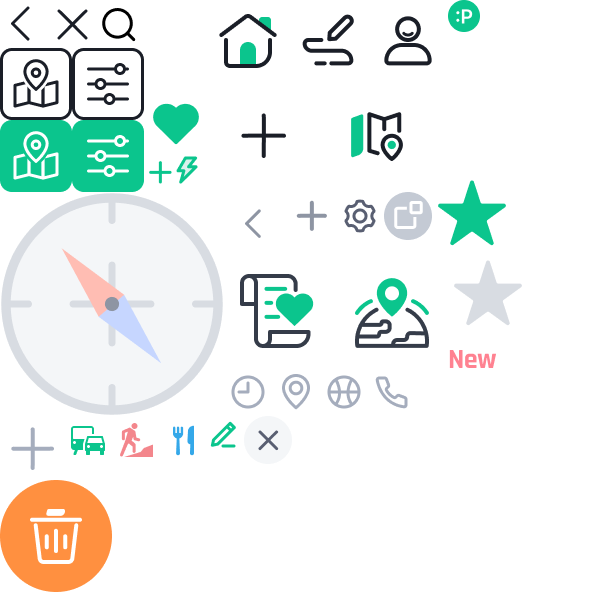
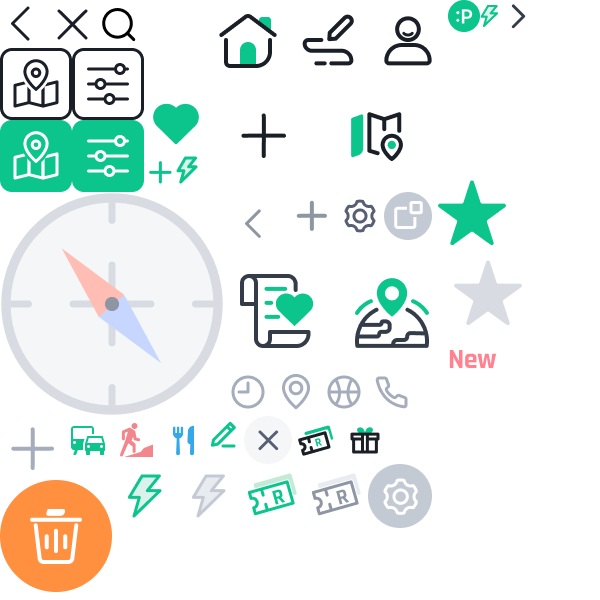
feat: 아이콘을 이미지 스플라이트로 변경

Changed region(s): [[0.3, 0.69, 0.72, 0.9], [0.78, 0.0, 0.87, 0.06], [0.21, 0.78, 0.27, 0.87]]

diff --git a/src/components/mypage/main/TravelEnerge.tsx b/src/components/mypage/main/TravelEnerge.tsx
@@ -1,4 +1,3 @@
-import Image from 'next/image';
 import Link from 'next/link';
 
 import EnergeProgress from './EnergeProgress';
@@ -13,13 +12,8 @@ const TravelEnerge = ({ currentEnergyCount }: TravelEnergeProps) => {
       <div className="relative h-[250px] mt-10">
         <div className="absolute top-[50%] left-[50%] translate-x-[-50%] translate-y-[-50%] rounded-full overflow-hidden">
           <div className="relative w-44 h-44 bg-white z-10 shadow-md flex flex-col items-center justify-center">
-            <span className="text-gray-600 text-[13px] font-bold flex gap-1">
-              <Image
-                src="/icon_search_energy.png"
-                width={10}
-                height={16}
-                alt="energe"
-              />
+            <span className="text-gray-600 text-[13px] font-bold flex gap-1 items-center">
+              <i className="ico_pravel ico_energy10_16" />
               <span>여행 에너지</span>
             </span>
             <span className="text-primary text-[46px] font-semibold leading-[55.2px]">
@@ -32,9 +26,10 @@ const TravelEnerge = ({ currentEnergyCount }: TravelEnergeProps) => {
       <div className="mt-10 w-full px-4">
         <Link
           href="/mypage/energy-history"
-          className="flex items-center justify-center w-full h-[54px] bg-gray-900 rounded-lg text-white"
+          className="flex items-center justify-center w-full h-[54px] bg-gray-900 rounded-lg text-white gap-5"
         >
           에너지 히스토리
+          <i className="ico_pravel ico_white_arrow16" />
         </Link>
       </div>
     </>

diff --git a/src/components/mypage/main/RewardList.tsx b/src/components/mypage/main/RewardList.tsx
@@ -1,5 +1,3 @@
-import Image from 'next/image';
-
 import { MypageTotalCountResponse } from '@/types/mypage.type';
 
 type RewardListProps = Omit<MypageTotalCountResponse, 'currentEnergyCount'>;
@@ -28,9 +26,7 @@ const RewardList = ({
         <div className="w-20 h-[54px] bg-gray-100 rounded-lg py-[6px] pl-3 pr-[19px]">
           <h3 className="font-semibold text-[13px] text-gray-600">쿠폰</h3>
           <div className="flex items-center justify-between">
-            <div className="w-6 h-6 relative">
-              <Image src="/mypage/coupon.png" alt="쿠폰" fill />
-            </div>
+            <i className="ico_pravel ico_coupon24 relative" />
             <span className="font-semibold text-gray-700">
               {currentCouponCount}
             </span>
@@ -39,9 +35,7 @@ const RewardList = ({
         <div className="w-20 h-[54px] bg-gray-100 rounded-lg py-[6px] pl-3 pr-[19px]">
           <h3 className="font-semibold text-[13px] text-gray-600">기념품</h3>
           <div className="flex items-center justify-between">
-            <div className="w-6 h-6 relative">
-              <Image src="/mypage/reward.png" alt="기념품" fill />
-            </div>
+            <i className="ico_pravel ico_reward24 relative" />
             <span className="font-semibold text-gray-700">
               {currentGiftCount}
             </span>

diff --git a/src/styles/icons.css b/src/styles/icons.css
@@ -153,3 +153,63 @@
   height: 24px;
   background-position: -192px -96px;
 }
+
+.ico_coupon24 {
+  width: 24px;
+  height: 24px;
+  background-position: -146px -208px;
+}
+
+.ico_reward24 {
+  width: 24px;
+  height: 24px;
+  background-position: -170px -208px;
+}
+
+.ico_energy10_16 {
+  width: 10px;
+  height: 16px;
+  background-position: -240px 0px;
+}
+
+.ico_energy32 {
+  width: 32px;
+  height: 32px;
+  background-position: -56px -232px;
+}
+
+.ico_used_energy32 {
+  width: 32px;
+  height: 32px;
+  background-position: -88px -232px;
+}
+
+.ico_reward32 {
+  width: 32px;
+  height: 32px;
+  background-position: -120px -232px;
+}
+
+.ico_used_reward32 {
+  width: 32px;
+  height: 32px;
+  background-position: -152px -232px;
+}
+
+.ico_setting32 {
+  width: 32px;
+  height: 32px;
+  background-position: -184px -232px;
+}
+
+.ico_black_arrow16 {
+  width: 16px;
+  height: 16px;
+  background-position: -250px 0px;
+}
+
+.ico_white_arrow16 {
+  width: 16px;
+  height: 16px;
+  background-position: -266px 0px;
+}

diff --git a/src/components/mypage/reward/history/History.tsx b/src/components/mypage/reward/history/History.tsx
@@ -1,5 +1,3 @@
-import Image from 'next/image';
-
 import './history.css';
 
 interface HistoryItemProps {
@@ -17,16 +15,8 @@ const HistoryItem = ({ title, date, used }: HistoryItemProps) => {
       </div>
       <div>
         <div className="flex items-center">
-          <Image
-            className="mr-[6px]"
-            src={
-              used
-                ? '/mypage/history-used-energy-icon.png'
-                : '/mypage/history-energy-icon.png'
-            }
-            width={32}
-            height={32}
-            alt="energe"
+          <i
+            className={`ico_pravel ico${used ? '_used' : ''}_reward32 mr-[6px]`}
           />
           <span className="text-[14px] font-semibold text-gray-900 mr-1">
             사용하기

diff --git a/src/components/mypage/energe/History.tsx b/src/components/mypage/energe/History.tsx
@@ -1,5 +1,3 @@
-import Image from 'next/image';
-
 import './history.css';
 
 interface HistoryItemProps {
@@ -28,16 +26,8 @@ const HistoryItem = ({
       </div>
       <div>
         <div className="flex items-center">
-          <Image
-            className="mr-[6px]"
-            src={
-              used
-                ? '/mypage/history-used-energy-icon.png'
-                : '/mypage/history-energy-icon.png'
-            }
-            width={32}
-            height={32}
-            alt="energe"
+          <i
+            className={`ico_pravel ico${used ? '_used' : ''}_energy32 mr-[6px]`}
           />
           <span className="text-[14px] font-semibold text-gray-900 mr-1">
             에너지

diff --git a/src/components/mypage/main/Reward.tsx b/src/components/mypage/main/Reward.tsx
@@ -2,7 +2,7 @@ import Link from 'next/link';
 
 import { MypageTotalCountResponse } from '@/types/mypage.type';
 
-import RewardList from './RewordList';
+import RewardList from './RewardList';
 
 type RewardProps = Omit<MypageTotalCountResponse, 'currentEnergyCount'>;
 
@@ -16,7 +16,7 @@ const Reward = (props: RewardProps) => {
           className="flex items-center gap-2 text-[14px] text-gray-900 font-semibold"
         >
           <span>사용하러 가기</span>
-          <div className="w-4 h-4 bg-[url('/img_pravel.png')] rotate-180 bg-[length:180px_203px]" />
+          <i className="ico_pravel ico_black_arrow16" />
         </Link>
       </div>
       <RewardList {...props} />

diff --git a/src/app/mypage/page.tsx b/src/app/mypage/page.tsx
@@ -15,9 +15,7 @@ const MypageMain = async () => {
       <div className="flex justify-between">
         <Profile {...user} />
         <div className="flex items-center">
-          <button className=" rounded-full bg-gray-400 w-8 h-8 flex justify-center items-center">
-            <Image src="/icon_set.png" width={26} height={26} alt="setting" />
-          </button>
+          <i className="ico_pravel ico_setting32 cursor-pointer" />
         </div>
       </div>
 
